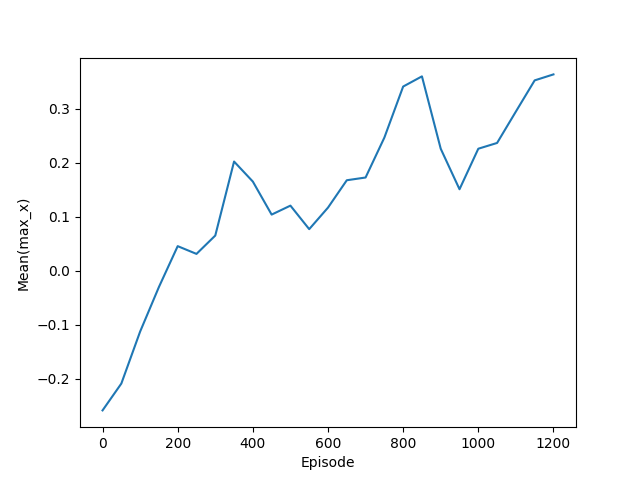
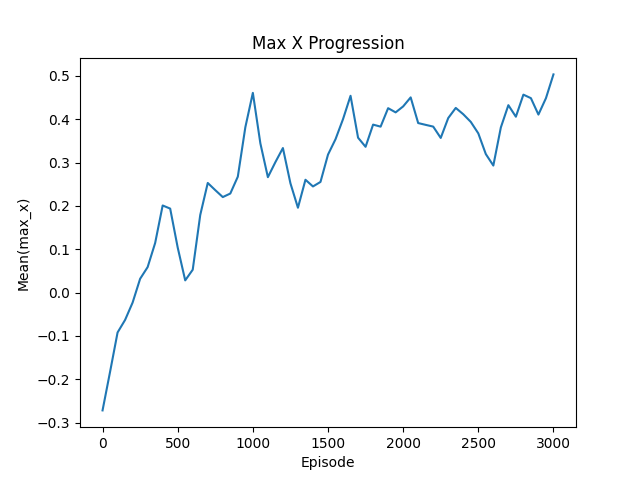
mountain car solved - action-map 4

diff --git a/Mountain Car/mountainCar.qLearning.py b/Mountain Car/mountainCar.qLearning.py
@@ -155,6 +155,7 @@ if (mean_reward > reward_threshold):
     plt.ylabel('Mean(max_x)')
     plt.xlabel('Episode')
     plt.ylim()
+    plt.title('Max X Progression')
     plt.show()
 
 else:
@@ -201,4 +202,7 @@ for i in range(len(qLearning.qTable)):
 
         plt.plot(x, y, marker=marker, color=color)
 
+plt.xlabel('X')
+plt.ylabel('Velocity')
+plt.title('State/Action Map')
 plt.show()
